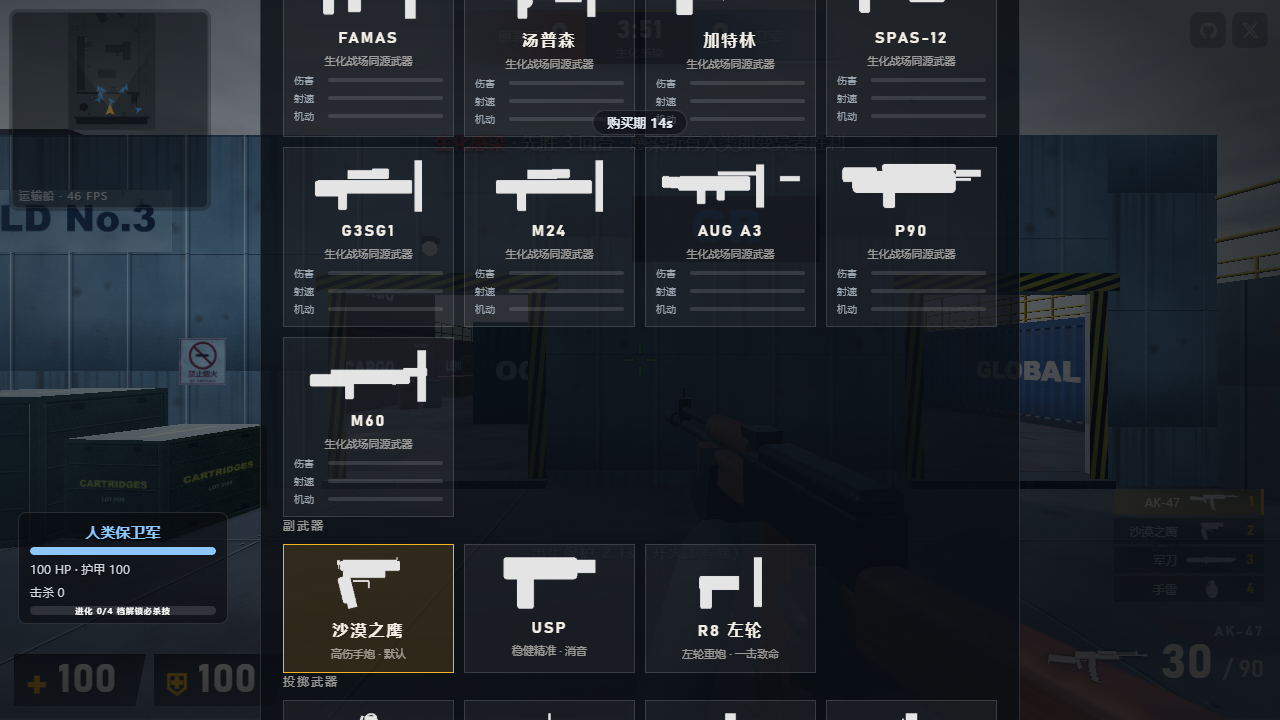
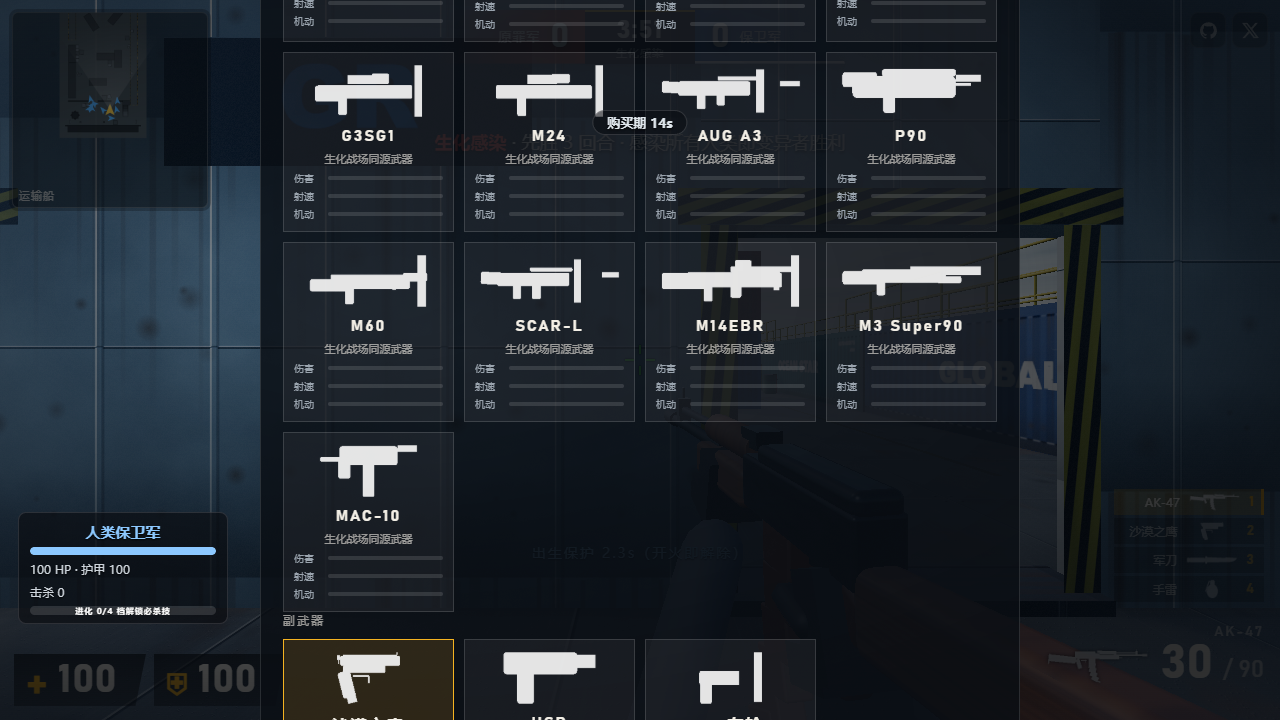
WOZ V33: 新武器批次 A——SCAR-L / M14EBR / M3 Super90 / MAC-10
- weapons: scarl(32伤/620rpm 沙色步枪) m14ebr(52伤半自动 DMR 高穿透) m3super(泵动霰弹 8丸) mac10(1080rpm 冲锋枪)
- guns: 四把枪程序化建模（战术导轨/瞄准镜/泵动护木/垂直弹匣/折叠托）
- 商店 17 张主武器卡；BOT 池扩充至 15/12 种轮换
- 测试: probe v29 3 断言 + v8/v18/v19 卡数断言同步 + smoke 全绿

diff --git a/cf-transport-ship/src/guns.js b/cf-transport-ship/src/guns.js
@@ -297,6 +297,51 @@ const builders = {
     anchor(g, 'grip', 0, -0.05, 0.1); anchor(g, 'muzzle', 0, 0, -0.42);
     return g;
   },
+  scarl(m) {
+    const g = new THREE.Group();
+    part(g, RB(0.048, 0.082, 0.44, 0.012), m.olive, 0, 0, -0.03);       // 沙色机匣
+    part(g, RB(0.03, 0.024, 0.26, 0.008), m.dark, 0, 0.06, -0.14);      // 顶部导轨
+    part(g, BX(0.026, 0.26, 0.045), m.steel, 0, -0.01, -0.3);           // 枪管
+    part(g, CZ(0.016, 0.1), m.metal, 0, 0.028, -0.5);                   // 消焰器
+    part(g, RB(0.028, 0.12, 0.05, 0.01), m.rubber, 0, -0.06, 0.07);     // 握把
+    part(g, RB(0.028, 0.14, 0.055, 0.01), m.rubber, 0, -0.05, -0.05);   // 弹匣
+    part(g, RB(0.04, 0.075, 0.2, 0.012), m.olive, 0, 0.005, 0.19, -0.05); // 伸缩托
+    anchor(g, 'grip', 0, -0.055, 0.08); anchor(g, 'muzzle', 0, 0.028, -0.56);
+    return g;
+  },
+  m14ebr(m) {
+    const g = new THREE.Group();
+    part(g, RB(0.046, 0.082, 0.52, 0.012), m.black, 0, 0, -0.05);       // 机匣
+    part(g, RB(0.028, 0.03, 0.34, 0.008), m.dark, 0, 0.058, -0.2);      // 战术导轨
+    part(g, RB(0.034, 0.045, 0.09, 0.008), m.dark, 0, 0.085, -0.1);     // 瞄准镜
+    part(g, BX(0.026, 0.28, 0.045), m.steel, 0, -0.005, -0.38);         // 枪管
+    part(g, RB(0.028, 0.11, 0.05, 0.01), m.rubber, 0, -0.06, 0.09);     // 握把
+    part(g, RB(0.03, 0.1, 0.06, 0.01), m.rubber, 0, -0.045, -0.06);     // 弹匣
+    part(g, RB(0.038, 0.09, 0.24, 0.012), m.dark, 0, -0.005, 0.22);     // 枪托
+    part(g, BX(0.016, 0.05, 0.03), m.metal, 0, -0.03, -0.28);           // 两脚架
+    anchor(g, 'grip', 0, -0.055, 0.09); anchor(g, 'muzzle', 0, 0.005, -0.54);
+    return g;
+  },
+  m3super(m) {
+    const g = new THREE.Group();
+    part(g, RB(0.05, 0.075, 0.48, 0.012), m.black, 0, 0, -0.04);        // 机匣
+    part(g, CZ(0.024, 0.4, 10), m.steel, 0, 0.03, -0.28);               // 泵动枪管
+    part(g, RB(0.042, 0.04, 0.14, 0.01), m.wood, 0, -0.02, -0.3);       // 护木泵
+    part(g, RB(0.03, 0.1, 0.05, 0.01), m.rubber, 0, -0.06, 0.09);       // 握把
+    part(g, RB(0.038, 0.075, 0.22, 0.012), m.wood, 0, -0.01, 0.2);      // 枪托
+    anchor(g, 'grip', 0, -0.055, 0.09); anchor(g, 'muzzle', 0, 0.03, -0.5);
+    return g;
+  },
+  mac10(m) {
+    const g = new THREE.Group();
+    part(g, RB(0.05, 0.08, 0.24, 0.012), m.black, 0, 0, -0.02);         // 方盒机匣
+    part(g, CZ(0.014, 0.08), m.metal, 0, 0.03, -0.18);                  // 短枪管
+    part(g, RB(0.032, 0.16, 0.05, 0.008), m.dark, 0, -0.09, -0.02);     // 垂直弹匣
+    part(g, RB(0.026, 0.09, 0.05, 0.01), m.rubber, 0, -0.05, 0.08);     // 握把
+    part(g, RB(0.026, 0.02, 0.12, 0.006), m.steel, 0, -0.015, 0.12);    // 折叠托杆
+    anchor(g, 'grip', 0, -0.045, 0.06); anchor(g, 'muzzle', 0, 0.03, -0.24);
+    return g;
+  },
   aug(m) {
     const g = new THREE.Group();
     part(g, RB(0.052, 0.088, 0.44, 0.014), m.olive, 0, 0, -0.02);       // 无托机身（橄榄绿）

diff --git a/cf-transport-ship/src/weapons.js b/cf-transport-ship/src/weapons.js
@@ -149,6 +149,40 @@ export const WEAPONS = {
     sound: 'ak47', hudName: 'M60',
   },
 
+  // ---- V33（WOZ 时代枪械再扩充）----
+  scarl: {
+    id: 'scarl', name: 'SCAR-L', slot: 0, type: 'rifle', auto: true,
+    dmg: 32, headMul: 3.9, limbMul: 0.82, rpm: 620, mag: 30, reserve: 90, reload: 2.4, draw: 0.75,
+    speed: 0.97, range: 210, falloff: 0.987, pen: 1.05, armorPen: 0.78, knock: 2.0, stagger: 0.11,
+    spread: { base: 0.0028, move: 0.034, air: 0.14, crouch: 0.6, perShot: 0.0037, max: 0.034, recover: 9 },
+    recoil: { up: 0.0058, upMax: 0.06, side: 0.004, sideStart: 5, recover: 8 },
+    sound: 'ak47', hudName: 'SCAR-L',
+  },
+  m14ebr: {
+    id: 'm14ebr', name: 'M14EBR', slot: 0, type: 'rifle', auto: false,
+    dmg: 52, headMul: 3.2, limbMul: 0.88, rpm: 260, mag: 20, reserve: 60, reload: 2.8, draw: 0.85,
+    speed: 0.9, range: 280, falloff: 0.992, pen: 1.8, armorPen: 0.88, knock: 4.2, stagger: 0.28,
+    spread: { base: 0.0018, move: 0.05, air: 0.2, crouch: 0.55, perShot: 0.008, max: 0.05, recover: 6 },
+    recoil: { up: 0.018, upMax: 0.07, side: 0.006, sideStart: 3, recover: 7 },
+    sound: 'awm', hudName: 'M14EBR',
+  },
+  m3super: {
+    id: 'm3super', name: 'M3 Super90', slot: 0, type: 'shotgun', auto: false,
+    dmg: 12, pellets: 8, pelletSpread: 0.065, headMul: 2.2, limbMul: 0.9, rpm: 90, mag: 8, reserve: 32, reload: 3.0, draw: 0.95,
+    speed: 0.92, range: 40, falloff: 0.88, pen: 0.3, armorPen: 0.5, knock: 1.1, stagger: 0.09,
+    spread: { base: 0.01, move: 0.022, air: 0.1, crouch: 0.7, perShot: 0, max: 0.03, recover: 5 },
+    recoil: { up: 0.05, upMax: 0.055, side: 0.006, sideStart: 0, recover: 5 },
+    sound: 'deagle', hudName: 'M3 SUPER 90',
+  },
+  mac10: {
+    id: 'mac10', name: 'MAC-10', slot: 0, type: 'smg', auto: true,
+    dmg: 21, headMul: 3.2, limbMul: 0.86, rpm: 1080, mag: 32, reserve: 96, reload: 2.2, draw: 0.55,
+    speed: 1.04, range: 80, falloff: 0.94, pen: 0.55, armorPen: 0.5, knock: 1.1, stagger: 0.06,
+    spread: { base: 0.006, move: 0.024, air: 0.12, crouch: 0.7, perShot: 0.0026, max: 0.055, recover: 8 },
+    recoil: { up: 0.0038, upMax: 0.05, side: 0.005, sideStart: 4, recover: 8 },
+    sound: 'mp5', hudName: 'MAC-10',
+  },
+
   // ---- V20（近战/投掷扩展）----
   axe: {
     id: 'axe', name: '消防斧', slot: 2, type: 'melee', auto: true,
@@ -177,7 +211,7 @@ export const WEAPONS = {
   },
 };
 
-export const PRIMARIES = ['ak47', 'm4a1', 'awm', 'mp5', 'famas', 'thompson', 'minigun', 'spas', 'g3sg1', 'm24', 'aug', 'p90', 'm60'];
+export const PRIMARIES = ['ak47', 'm4a1', 'awm', 'mp5', 'famas', 'thompson', 'minigun', 'spas', 'g3sg1', 'm24', 'aug', 'p90', 'm60', 'scarl', 'm14ebr', 'm3super', 'mac10'];
 // V19：副武器三选（沙鹰默认；R8 左轮为原作风格高伤手炮）
 export const SECONDARIES = ['deagle', 'usp', 'r8'];
 

diff --git a/cf-transport-ship/src/woz/integrate.js b/cf-transport-ship/src/woz/integrate.js
@@ -78,7 +78,7 @@ export class WozManager {
     g.player.melee = o.melee;
     g.player.bind(document.getElementById('c'));
     g.actors.push(g.player);
-    const prim = (i) => ['ak47', 'awm', 'famas', 'mp5', 'thompson', 'm24', 'm4a1', 'spas', 'g3sg1', 'aug', 'p90'][i % 11];
+    const prim = (i) => ['ak47', 'awm', 'famas', 'mp5', 'thompson', 'm24', 'm4a1', 'spas', 'g3sg1', 'aug', 'p90', 'scarl', 'm14ebr', 'm3super', 'mac10'][i % 15];
     for (let i = 0; i < 9; i++) {
       const b = new Bot(g, { id: id++, name: names.pop() || 'Bot' + id, team: 'GR', diff: o.diff });
       b.primary = prim(i);
@@ -126,7 +126,7 @@ export class WozManager {
     g.actors.push(g.player);
     for (let i = 0; i < cfg.humans - 1; i++) {
       const b = new Bot(g, { id: id++, name: names.pop() || 'Bot' + id, team: 'GR', diff: o.diff });
-      b.primary = ['ak47', 'awm', 'famas', 'thompson', 'm4a1', 'spas', 'aug', 'p90'][i % 8];
+      b.primary = ['ak47', 'awm', 'famas', 'thompson', 'm4a1', 'spas', 'aug', 'p90', 'scarl', 'm14ebr', 'm3super', 'mac10'][i % 12];
       b.secondary = ['deagle', 'usp', 'r8'][i % 3];
       g.actors.push(b);
     }
